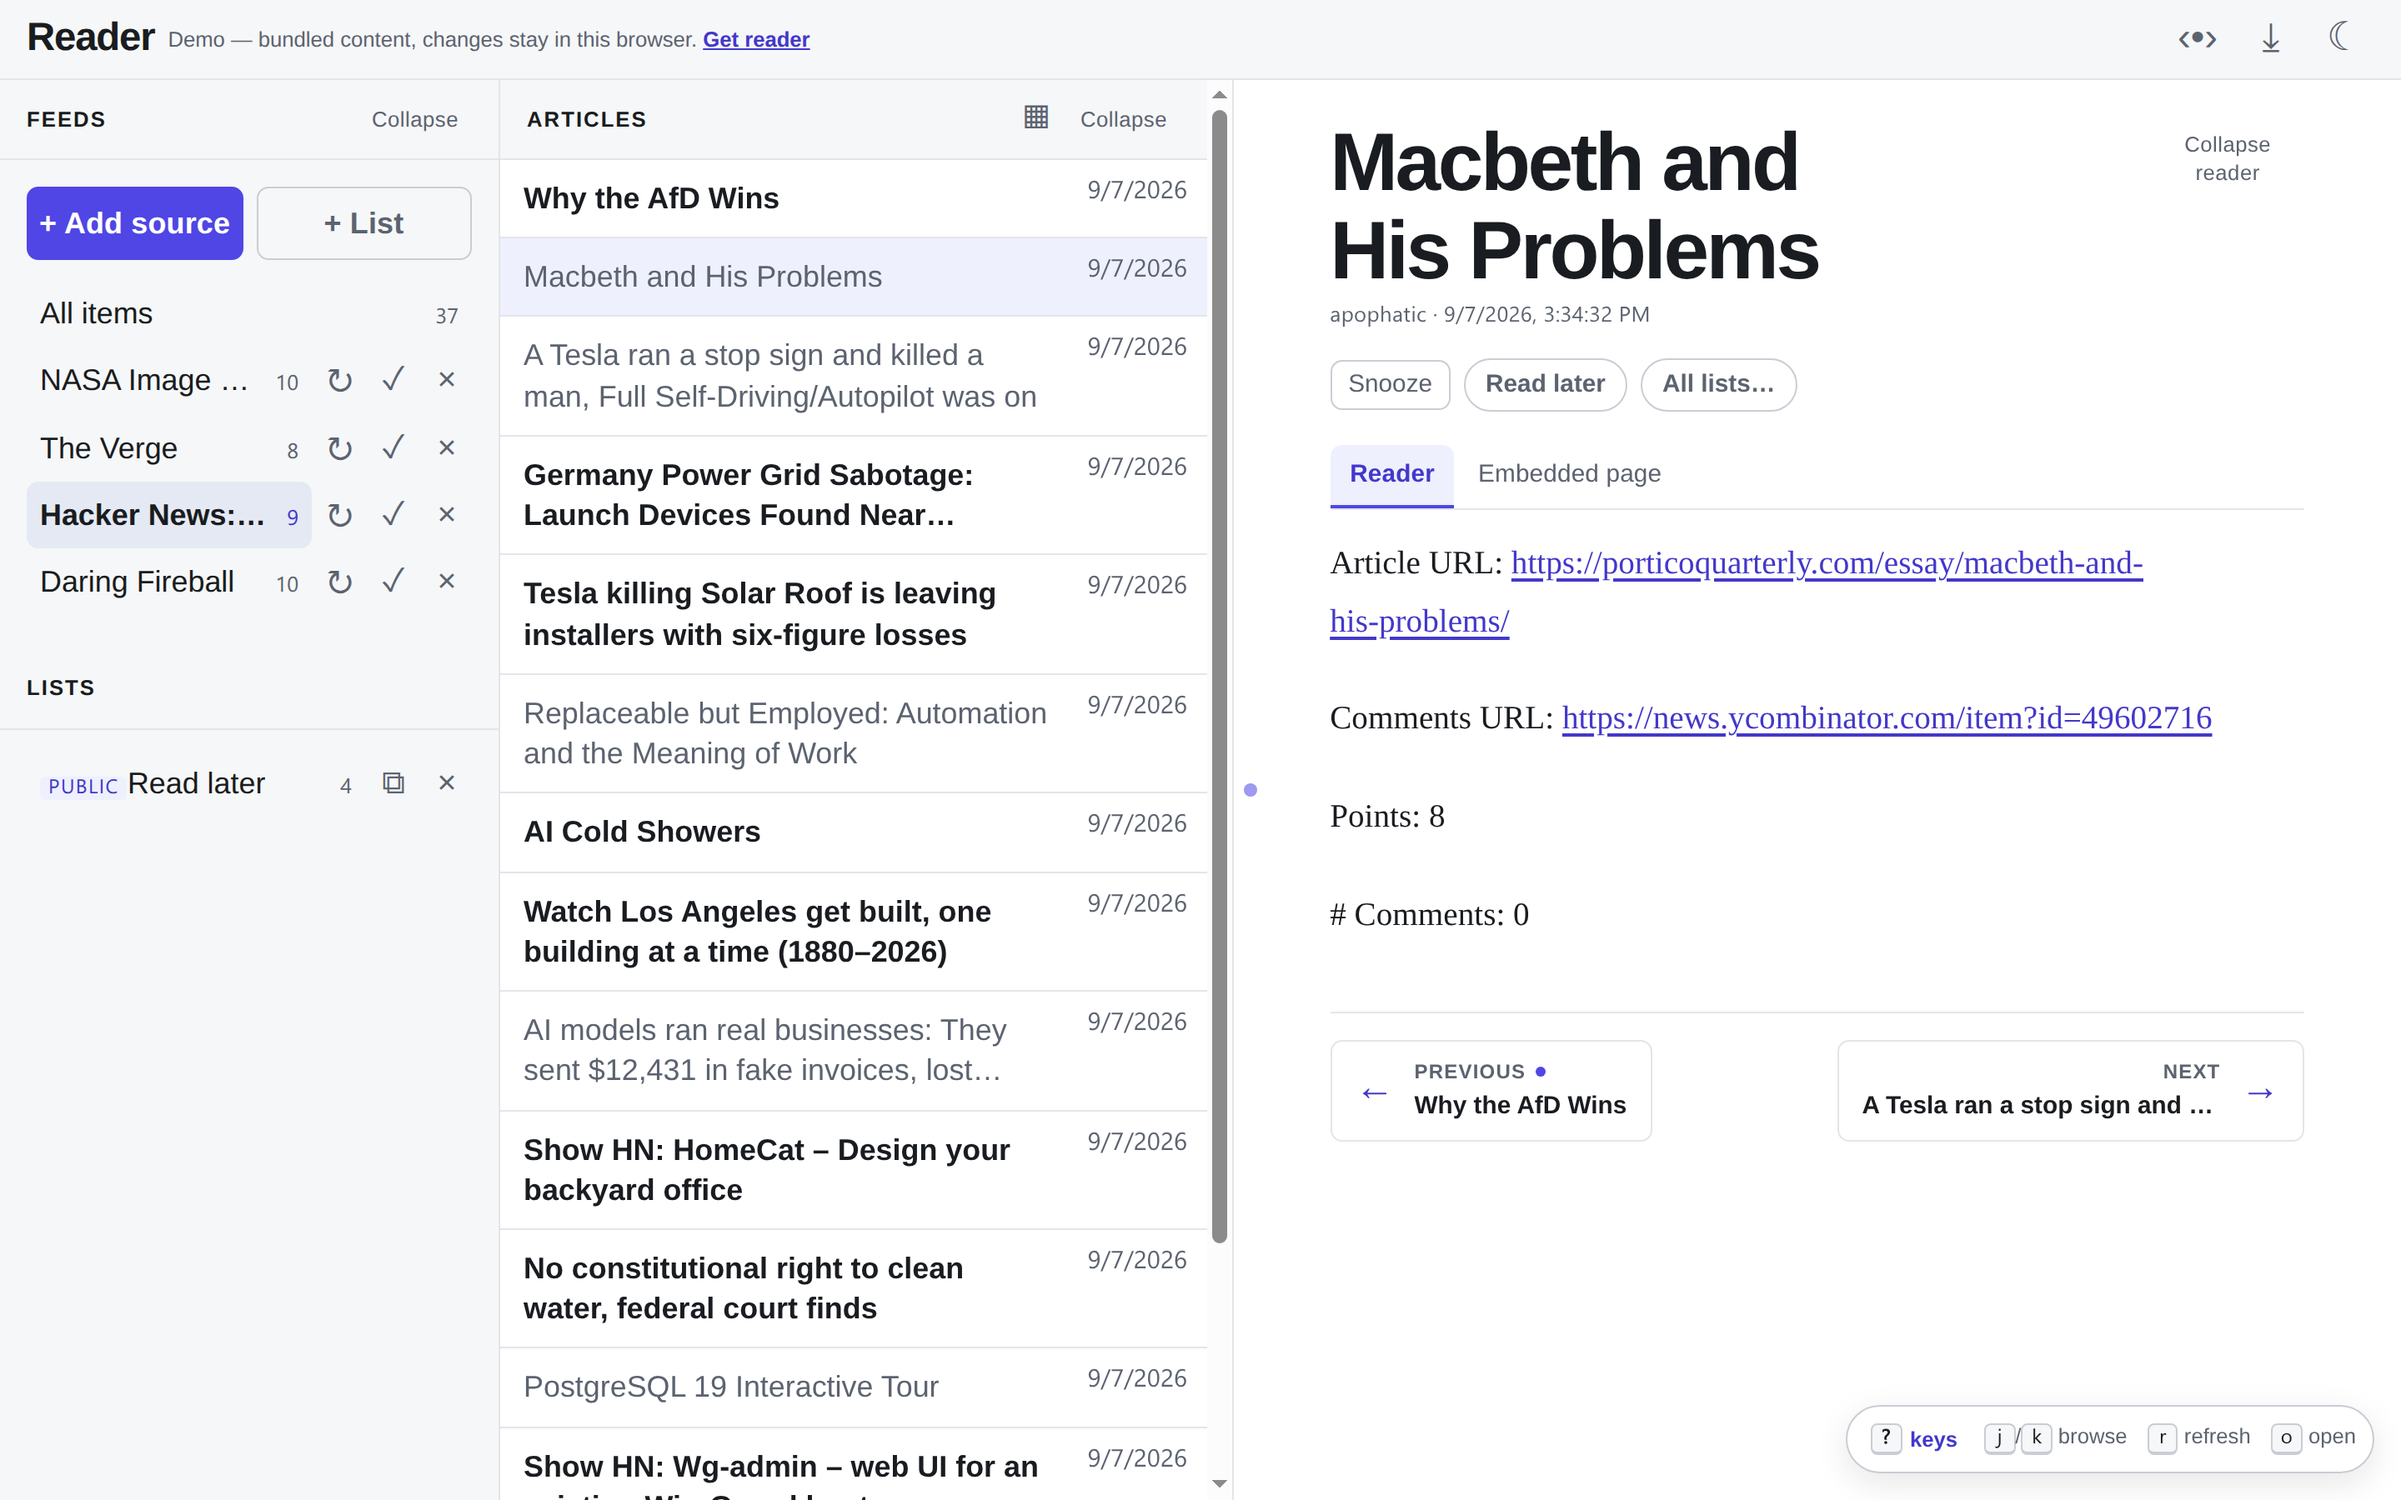
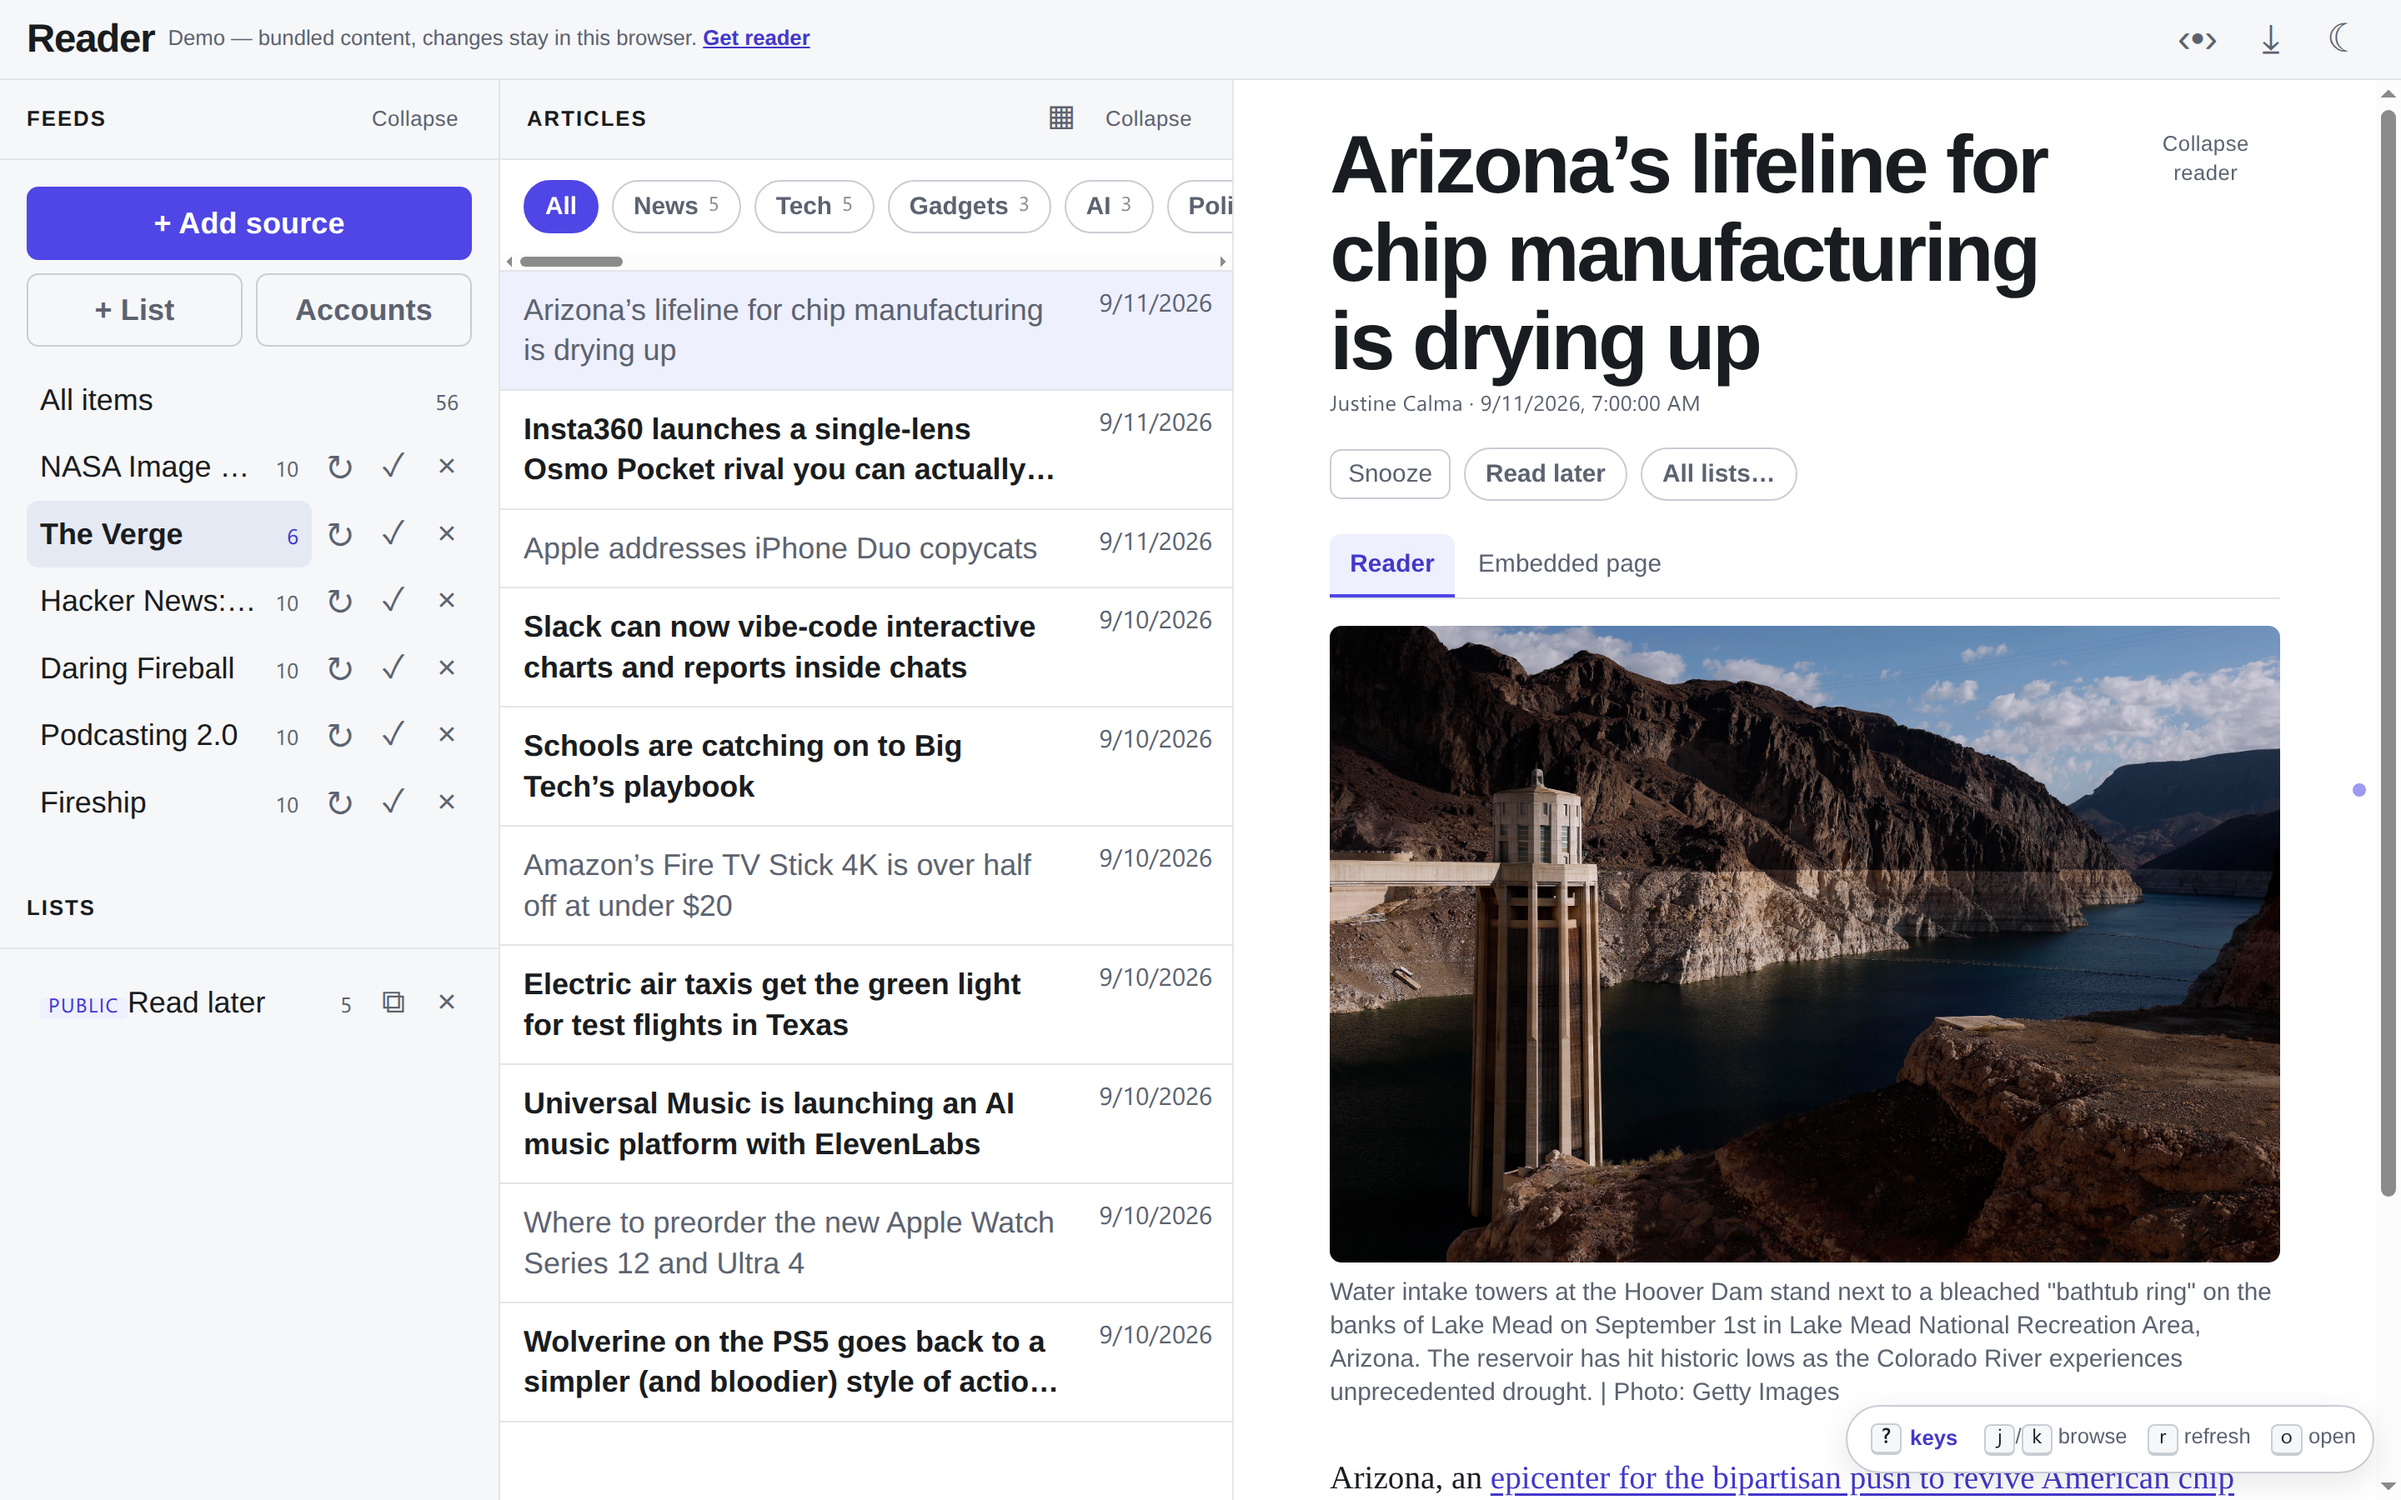
docs: refresh screenshots and add podcast, wizard and sign-in shots
All screenshots are recaptured from the new demo. New shots cover a
podcast episode with chapters and transcript (desktop and phone), the Add
source wizard, and a private feed's OAuth sign-in. The phone article shot
now opens a NASA image post instead of whatever landed fourth in the list.

The capture script gains page-side helpers so a shot can take several
steps (open a feed, open an episode, expand its sections), and it fails
loudly when a step throws. The README uses the docs-site screenshot; the
older copy under docs/screenshots is gone.

Claude-Session: https://claude.ai/code/session_01TD6EfrYki8tuBR1qhemVCQ

diff --git a/README.md b/README.md
@@ -5,7 +5,7 @@ A Google Reader clone for the agent era — an RSS, Atom, JSON Feed and podcast 
 📚 **Docs: [dev.standardbeagle.com/reader](https://dev.standardbeagle.com/reader)** — quick start, user guide, API reference, hosting, configuration, and changelog.
 🎯 **Demo: [dev.standardbeagle.com/reader/demo](https://dev.standardbeagle.com/reader/demo/)** — the full app on bundled content, no install.
 
-![article view](docs/screenshots/article-view.png)
+![reader's three-pane layout: feeds, article list, and an open article](site/src/assets/screenshots/desktop-reader.png)
 
 RSS was always pull-based updates from publishers. Agents are exactly the kind of prolific, structured publishers that drown a chat UI but fit a feed perfectly. This reader treats feeds as the universal subscription format — blogs today, agent digests tomorrow.
 
